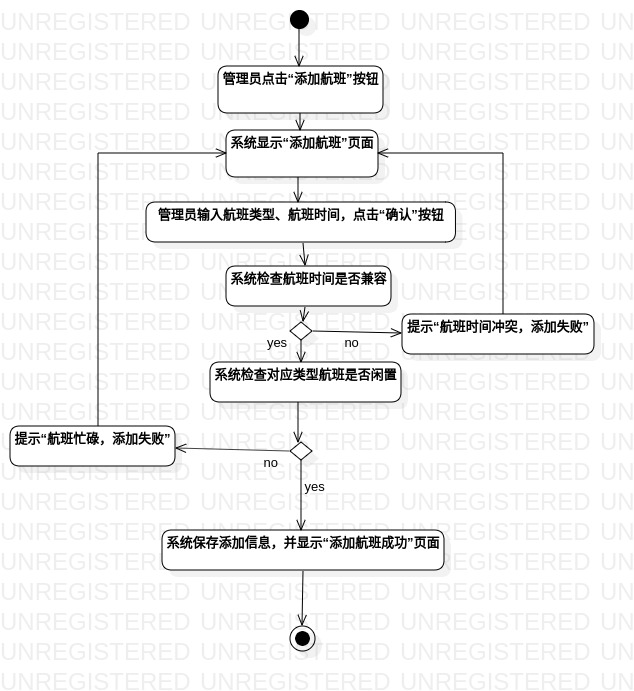
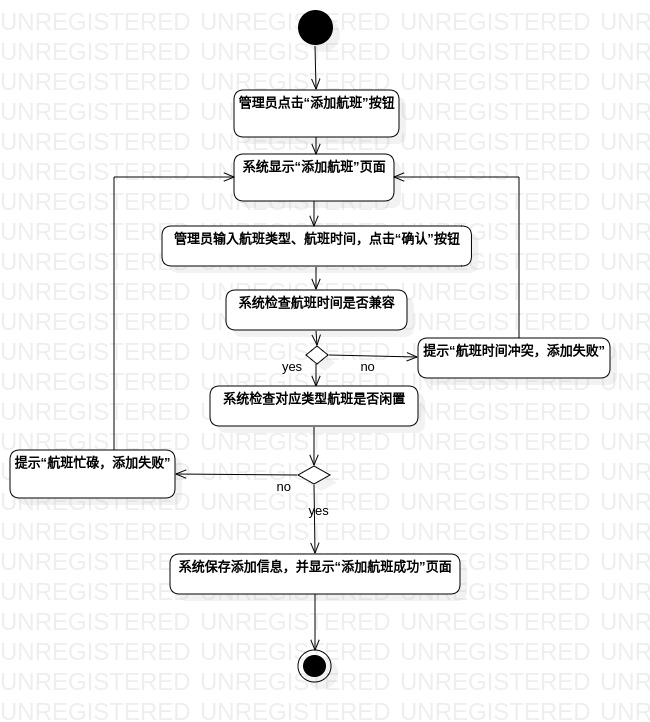
Adjust ActivityDiagram.jpg

Changed region(s): [[0.0, 0.0, 0.959, 0.9421]]

diff --git a/students/1714080901141/lab3.md b/students/1714080901141/lab3.md
@@ -40,7 +40,7 @@
 （4）添加活动：Toolbox -> Activities(Basic) -> Action  
 （5）分支处添加决策：Toolbox -> Activities(Basic) -> Decision  
 （6）添加流程线：Toolbox -> Activities(Basic) -> Control Flow（在决策分支处注明条件）  
-（7）调整整体：调整流程线的样式，活动的位置  
+（7）调整整体：调整流程线的样式、活动的位置或活动图的大小  
 
 ## 四、实验结果
 
@@ -55,7 +55,7 @@
 - 依据用例规约的基本流程和拓展流程，实现过程建模
 #### 2. 活动图画法如下（画法顺序不唯一）：
 - 创建Activity Diagra -> 添加初始结点、添加结束结点 -> 添加活动、分支处添加决策 -> 添加流程线、调整整体
-#### 3. 决策前应有类似检查的动作
+#### 3. 决策前应有类似检查的动作，检查后要有条件表明分支（yes/no、true/false或文字描述，与检查的动作相匹配），条件过后系统要有对应的动作保存信息（lab2.md提及），再之后就要动作有反馈（增加友好性）
 ## 六、实验调试
 #### Q1:
 what:  
@@ -67,7 +67,7 @@ how:
 #### Q2:
 what:  
 删除本地库的model1.jpg和model2.jpg之后，push操作不能实现github个人帐号下的修改  
-why:
+why:  
 git本读磁盘分为暂存区和工作区，push是将暂存区推到个人帐号的；而平常操作的是工作区，这就需要类似于add或者rm操作，将工作区指定文件保存起来了  
 how：  
 ``` bash
@@ -76,12 +76,19 @@ git commit -m "delete model1.jpg and model2.jpg"
 git push
 ```
 #### Q3:  
-what：
+what：  
 为方便老师查看有可能需要反复修改的图片，需要学会在pull request的commit中显示图片，但是不知道如何读取图片的路径  
 why：  
-事实上，当用户pull request后，文档路径会在https://raw.githubusercontent.com/用户帐号名/主库名/blob/master 下  
-how： 
+事实上，当用户pull request后，文档路径会在** https://raw.githubusercontent.com/用户帐号名/主库名/master ** 下  
+how：   
 ```
 ![ActivityDiagram1](https://raw.githubusercontent.com/cyh1069247088/uml-modeling-2020/master/students/1714080901141/lab3_ActivityDiagram1.jpg)
 ![ActivityDiagram2](https://raw.githubusercontent.com/cyh1069247088/uml-modeling-2020/master/students/1714080901141/lab3_ActivityDiagram2.jpg)
 ```
+#### Q4:
+what:  
+流程线一直画不直，导致看起来歪歪扭扭的，通过调整活动图位置也无济于事  
+why:  
+如果只是调整活动图位置，由于两个相邻活动图的相邻边的长度奇偶性不同，而线只在活动图的中间，每次移动以一个单元为单位，所以通过移动活动图永远无法对齐  
+how:  
+加之通过调节活动图的长度即可  
